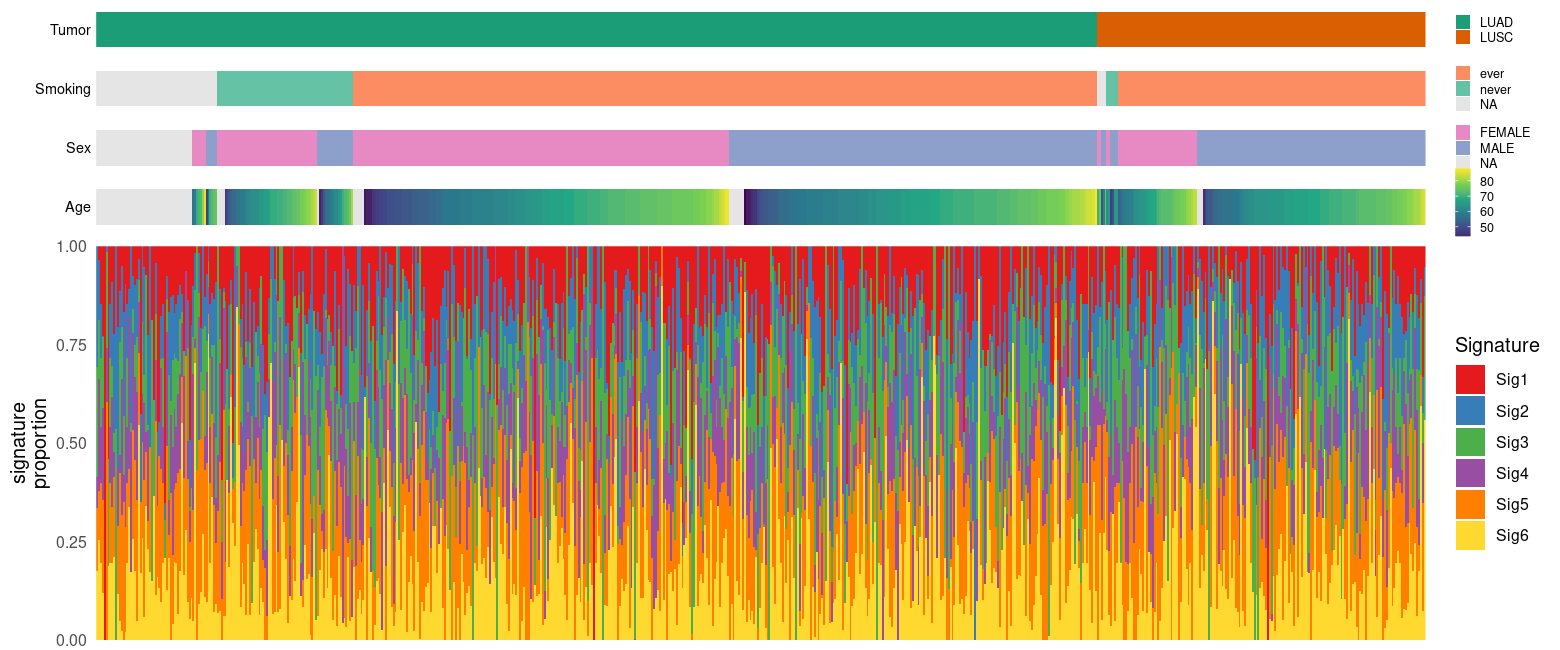
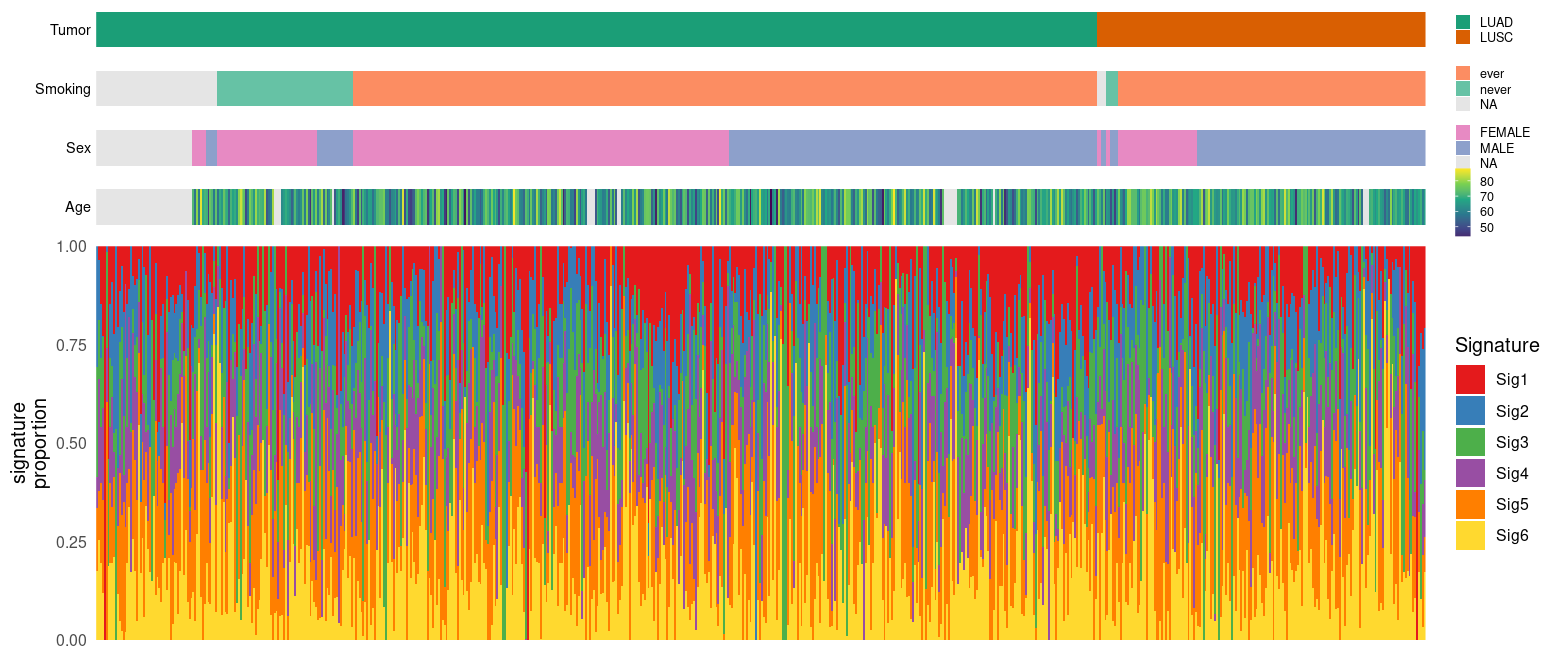
lung_subtype: order structure plot by tumor, smoking, sex (not age)
Regenerate the annotated structure plot ordering samples by tumor type, then
smoking, then sex; age is still shown as a track but no longer used for
ordering.

diff --git a/docs/lung_subtype.html b/docs/lung_subtype.html
@@ -1026,7 +1026,7 @@ alt="96-context spectra of the 6 mutational signatures, faceted by substitution 
 <div id="ms-structure" class="section level2">
 <h2>Signature structure by tumor type, smoking, sex, and age</h2>
 <p>Per-sample signature proportions (structure plot), with samples ordered by
-tumor type, then smoking status, then sex, then age. The tracks above show these
+tumor type, then smoking status, then sex. The tracks above show these
 sample-level labels in the same order. Signature 4 (purple) is the tobacco
 C&gt;A signature, enriched in ever-smokers; Signature 3 (green) is enriched in
 never-smokers.</p>
